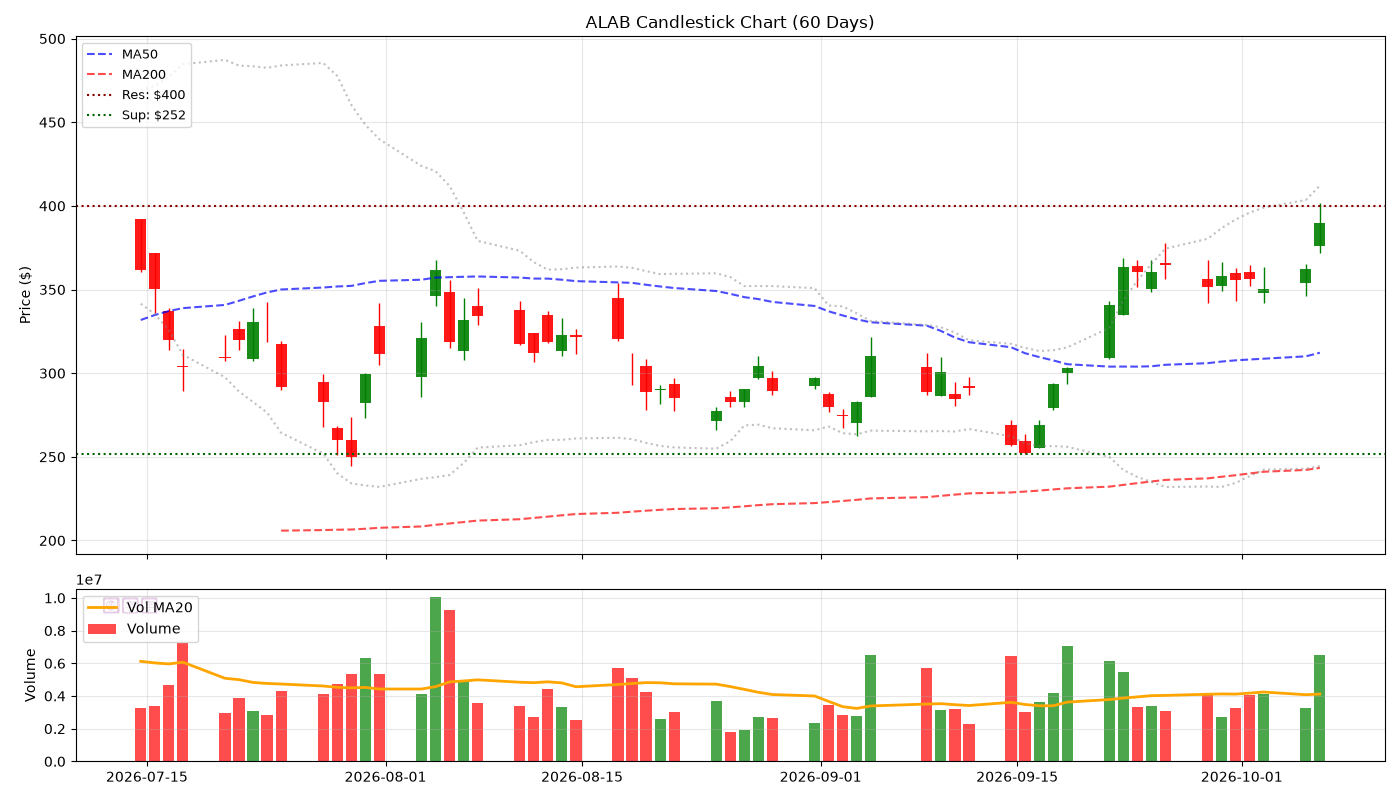
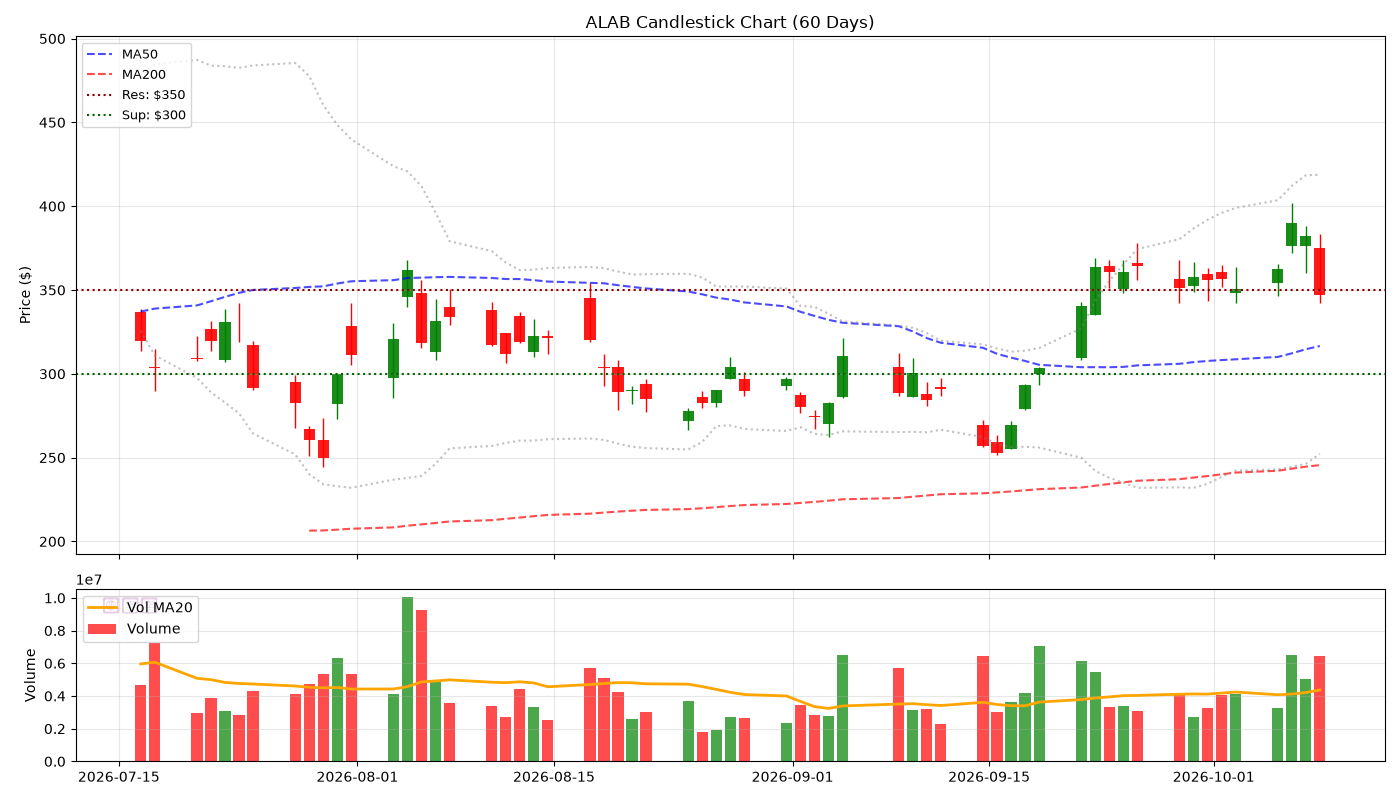
feat(v5): 2026-10-09 Candlestick

diff --git a/reports/2026-10-09.md b/reports/2026-10-09.md
@@ -1,0 +1,85 @@
+# 🕯 Hermes V5 陰陽燭專業日報 - 2026-10-09
+> **生成時間**: 2026-10-09 06:01:21 | **圖表**: 正宗陰陽燭 + Volume
+
+---
+
+## 📊 核心數據
+
+| 股票 | 價格 | 漲跌% | RSI | 成交量 | 阻力 | 支撐 |
+|------|------|-------|-----|--------|------|------|
+| SNDK | $1609.46 | -4.90% | 36.7 | 💧 | $1909 | $1600 |
+| MU | $1035.84 | -4.79% | 53.0 | 💧 | $1050 | $1000 |
+| SOXL | $142.52 | -10.31% | 60.2 | 🔥 | $150 | $100 |
+| TSLA | $375.00 | -0.74% | 56.9 | 💧 | $387 | $346 |
+| APP | $280.12 | -0.42% | 36.7 | 💧 | $300 | $267 |
+| NOW | $139.75 | +1.36% | 56.2 | 💧 | $148 | $127 |
+| CAT | $796.18 | -2.17% | 46.6 | 💧 | $800 | $773 |
+| AMAT | $509.57 | -2.13% | 74.6 | 💧 | $547 | $500 |
+| NOK | $10.14 | -4.52% | 43.2 | 💧 | $11 | $10 |
+| ALAB | $347.05 | -9.21% | 62.3 | 💧 | $350 | $300 |
+
+---
+
+## 📈 個股陰陽燭分析
+
+### SNDK ($1609.46, -4.90%)
+![Candlestick](../charts/SNDK.png)
+
+- **RSI**: 36.7 | **Vol**: NORMAL
+- **關鍵位**: 阻力 $1909.48 | 支撐 $1600.00
+
+### MU ($1035.84, -4.79%)
+![Candlestick](../charts/MU.png)
+
+- **RSI**: 53.0 | **Vol**: NORMAL
+- **關鍵位**: 阻力 $1050.00 | 支撐 $1000.00
+
+### SOXL ($142.52, -10.31%)
+![Candlestick](../charts/SOXL.png)
+
+- **RSI**: 60.2 | **Vol**: HIGH
+- **關鍵位**: 阻力 $150.00 | 支撐 $100.00
+
+### TSLA ($375.00, -0.74%)
+![Candlestick](../charts/TSLA.png)
+
+- **RSI**: 56.9 | **Vol**: NORMAL
+- **關鍵位**: 阻力 $386.83 | 支撐 $345.88
+
+### APP ($280.12, -0.42%)
+![Candlestick](../charts/APP.png)
+
+- **RSI**: 36.7 | **Vol**: NORMAL
+- **關鍵位**: 阻力 $300.00 | 支撐 $266.84
+
+### NOW ($139.75, +1.36%)
+![Candlestick](../charts/NOW.png)
+
+- **RSI**: 56.2 | **Vol**: NORMAL
+- **關鍵位**: 阻力 $147.57 | 支撐 $126.75
+
+### CAT ($796.18, -2.17%)
+![Candlestick](../charts/CAT.png)
+
+- **RSI**: 46.6 | **Vol**: NORMAL
+- **關鍵位**: 阻力 $800.00 | 支撐 $772.86
+
+### AMAT ($509.57, -2.13%)
+![Candlestick](../charts/AMAT.png)
+
+- **RSI**: 74.6 | **Vol**: NORMAL
+- **關鍵位**: 阻力 $547.25 | 支撐 $500.00
+
+### NOK ($10.14, -4.52%)
+![Candlestick](../charts/NOK.png)
+
+- **RSI**: 43.2 | **Vol**: NORMAL
+- **關鍵位**: 阻力 $11.17 | 支撐 $9.65
+
+### ALAB ($347.05, -9.21%)
+![Candlestick](../charts/ALAB.png)
+
+- **RSI**: 62.3 | **Vol**: NORMAL
+- **關鍵位**: 阻力 $350.00 | 支撐 $300.00
+
+*Generated by Hermes Agent V5 (Candlestick Pro)*

diff --git a/index.md b/index.md
@@ -1,12 +1,12 @@
 # 🌍 Hermes V5 陰陽燭情報中心
-> **更新**: 2026-10-07 06:00:42
+> **更新**: 2026-10-09 06:01:21
 
 | 股票 | 價格 | 漲跌% | RSI | Vol |
 |------|------|-------|-----|-----|
-| SNDK | $1660.46 | -2.56% | 58.3 | 💤 |
-| MU | $1045.56 | -1.73% | 68.2 | 💤 |
-| SOXL | $164.26 | -0.01% | 83.5 | 💤 |
-| TSLA | $380.68 | +0.51% | 63.7 | 💤 |
-| APP | $278.78 | -1.13% | 30.0 | 💤 |
+| SNDK | $1609.46 | -4.90% | 36.7 | 💤 |
+| MU | $1035.84 | -4.79% | 53.0 | 💤 |
+| SOXL | $142.52 | -10.31% | 60.2 | 🔥 |
+| TSLA | $375.00 | -0.74% | 56.9 | 💤 |
+| APP | $280.12 | -0.42% | 36.7 | 💤 |
 
-📖 [查看完整陰陽燭報告](reports/2026-10-07.md)
+📖 [查看完整陰陽燭報告](reports/2026-10-09.md)
